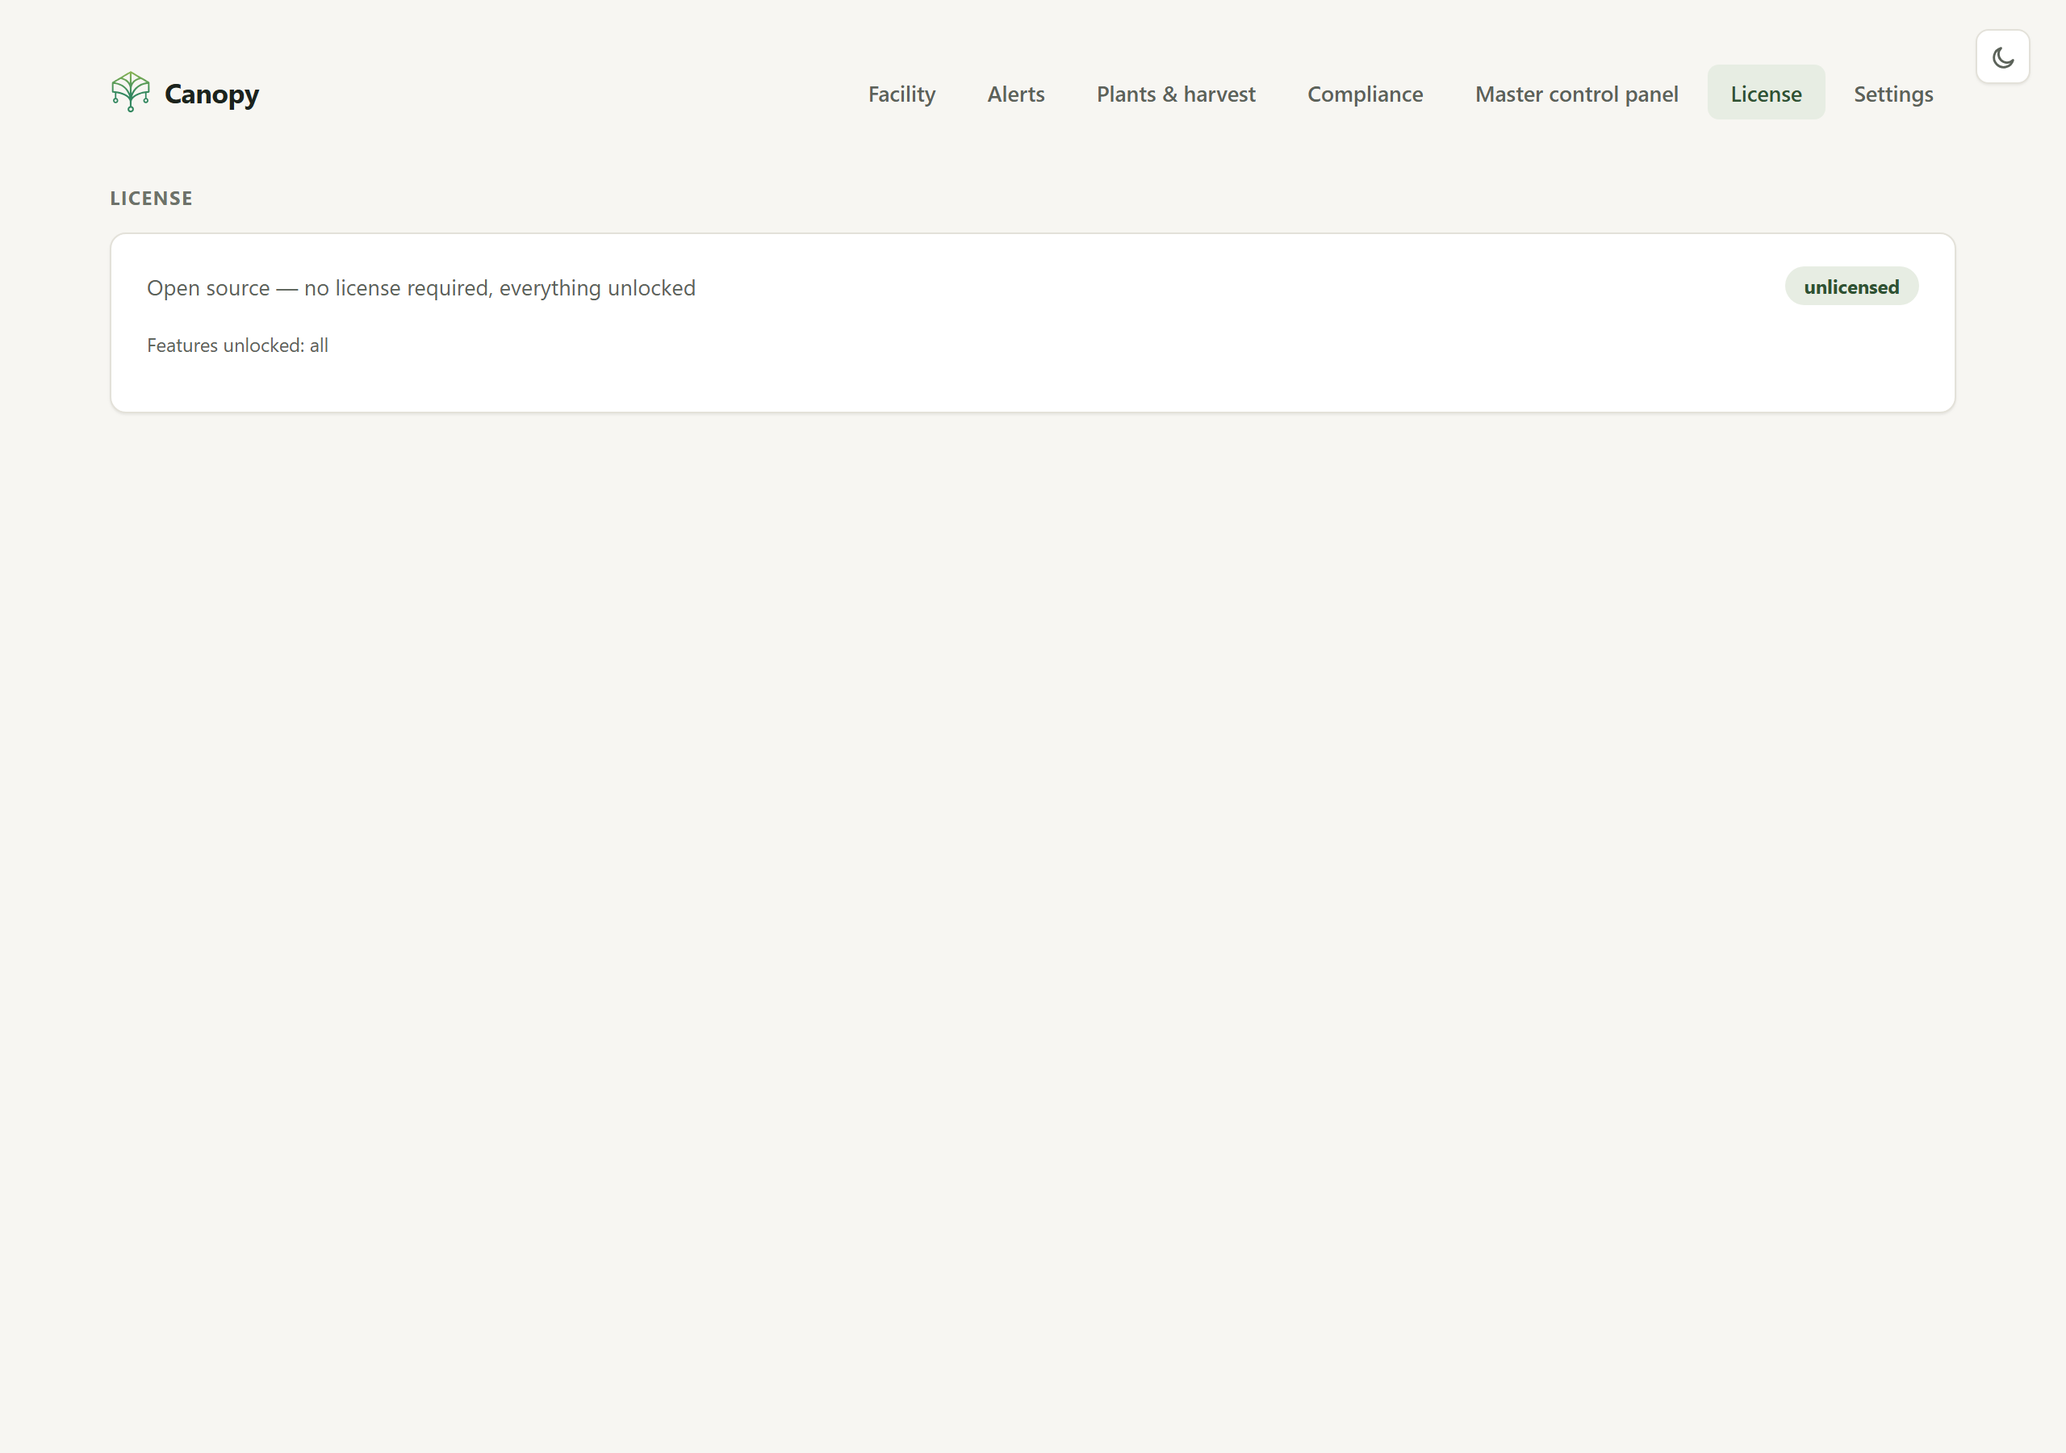
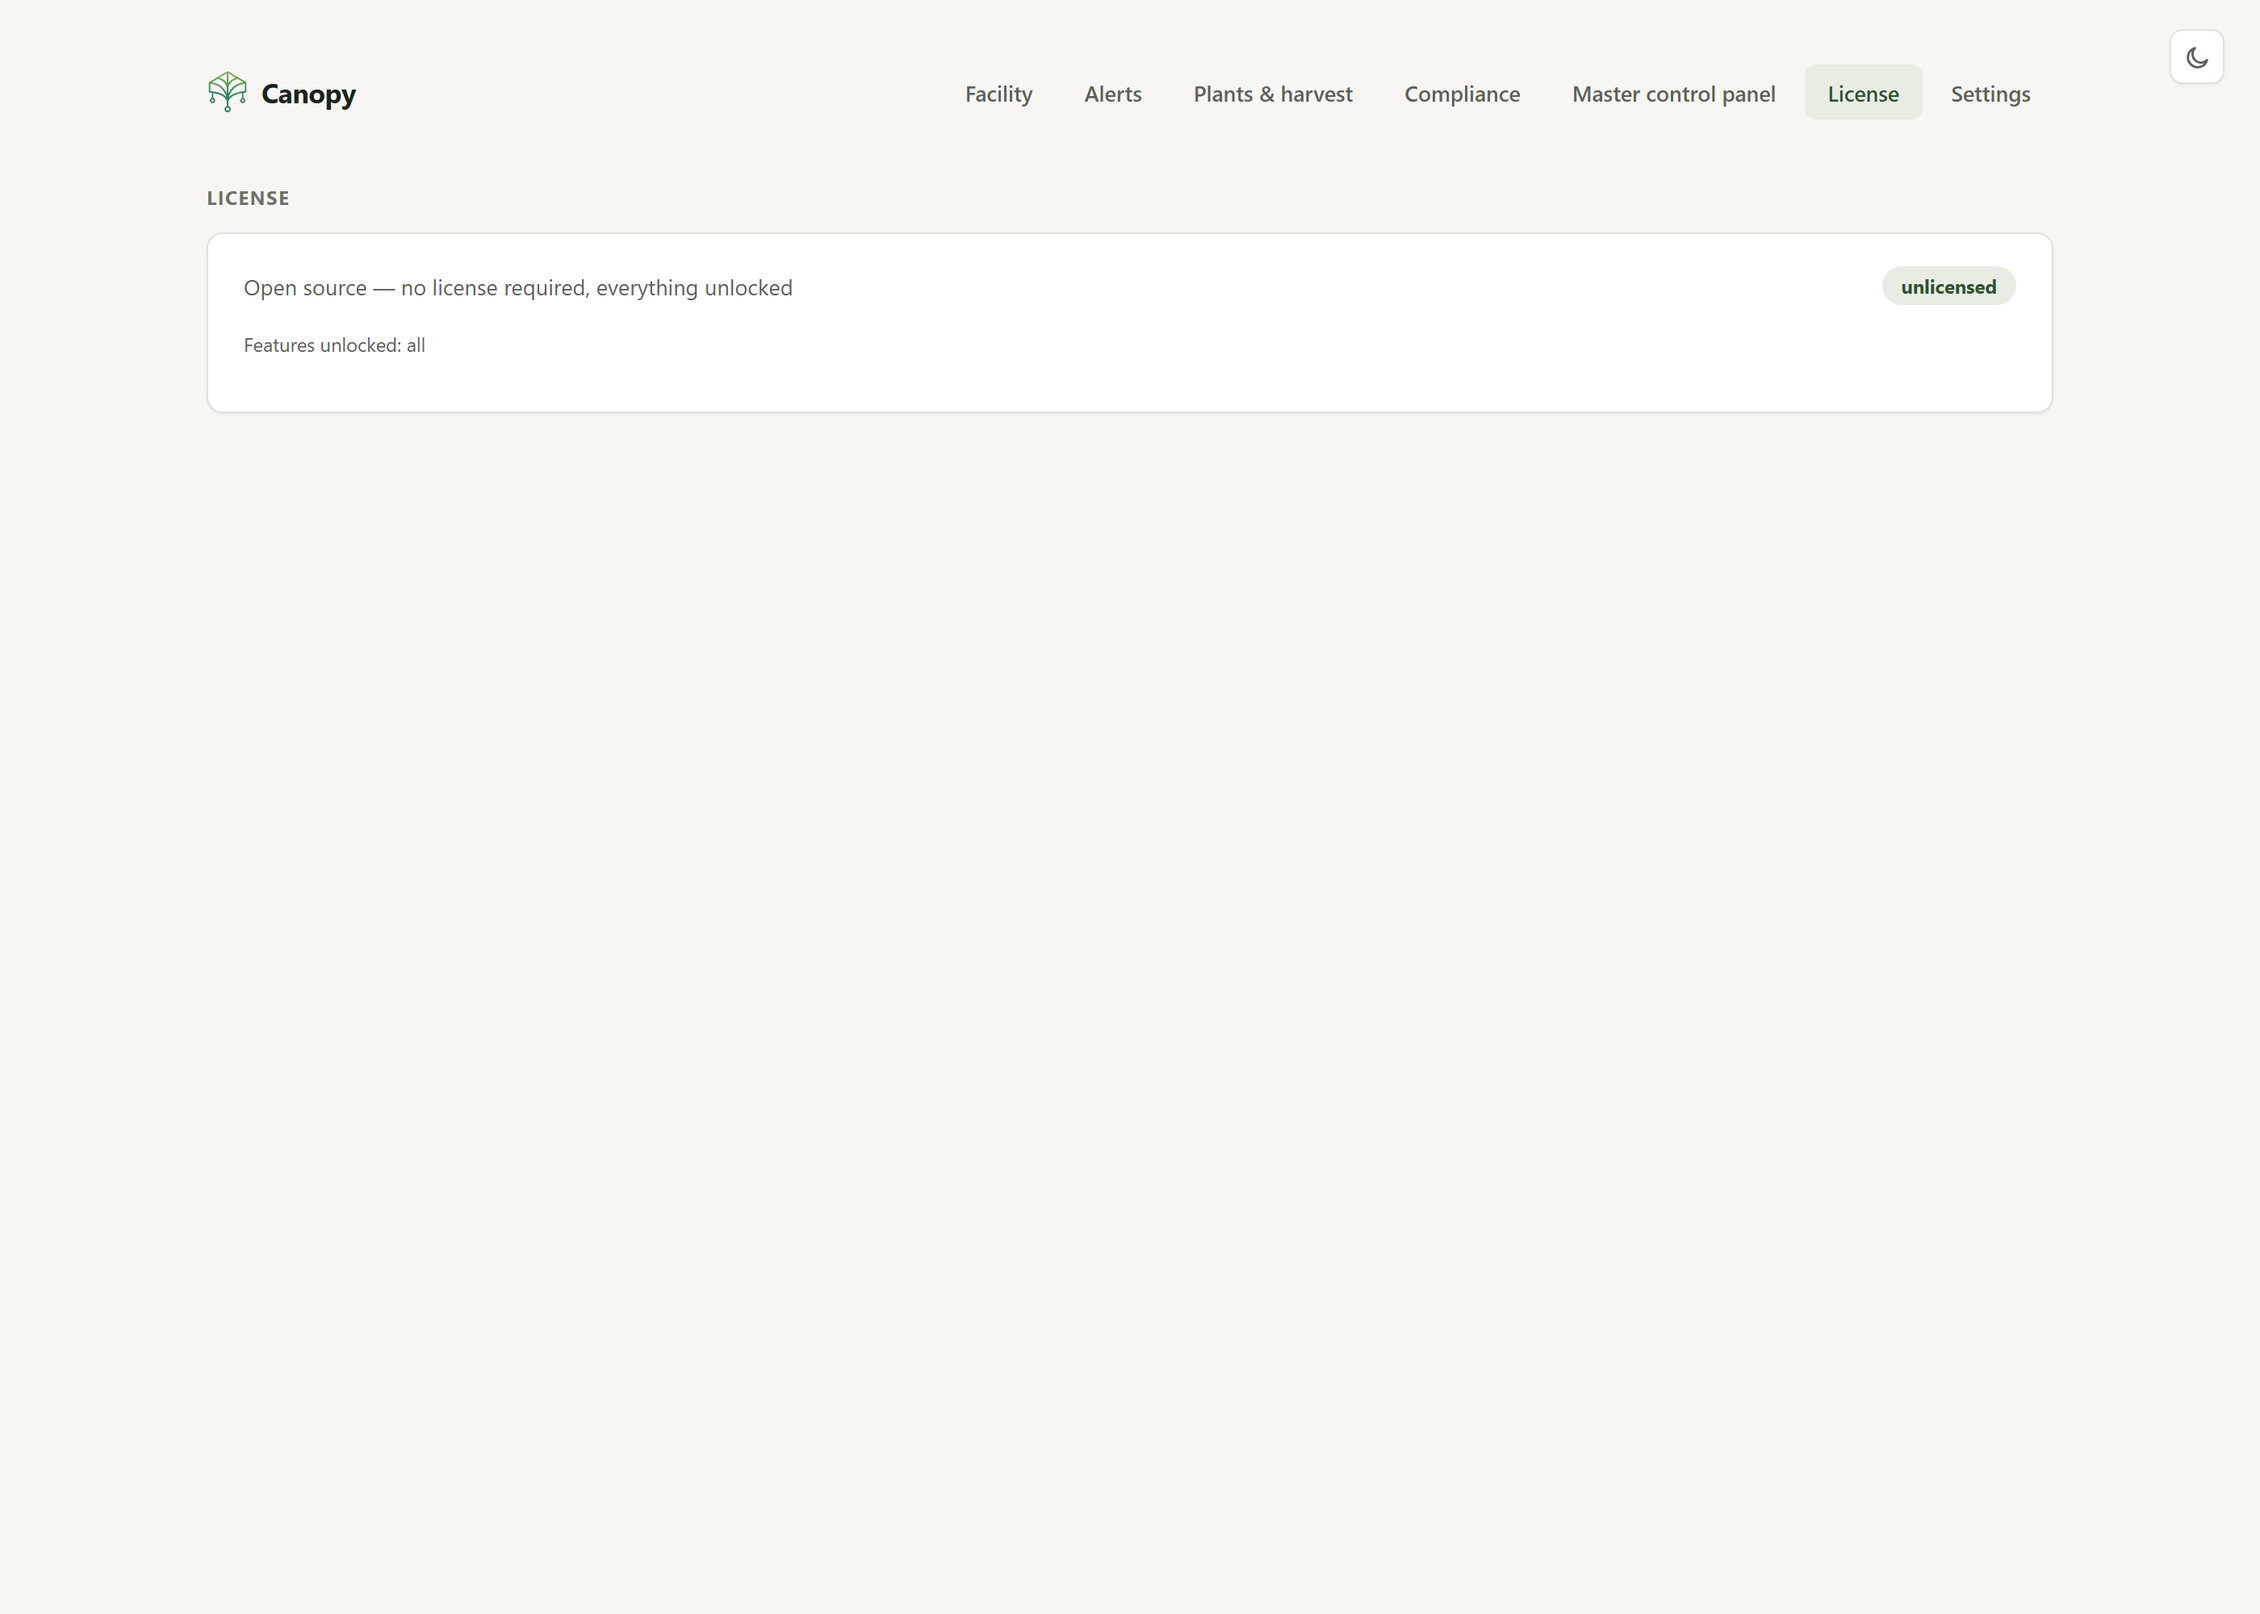
Refresh docs/screenshots to reflect this session's UI work, fix stray research-notes text in CA compliance data
Screenshots were 4 weeks stale (pre-dating the onboarding wizard, grouped
credentials list, new hardware adapters, and StatGrid fix). While
recapturing the compliance page for the marketing crop, found that
california.py's pos_realtime_sync_note had a leftover meta-commentary
sentence ("A genuine, well-sourced correction...") baked into the field
that renders live on the Compliance page — reads like a note to a
reviewer, not product copy. Trimmed it to match the citation style used
everywhere else in the compliance dataset.

diff --git a/edge-agent/canopy_agent/compliance_rules/california.py b/edge-agent/canopy_agent/compliance_rules/california.py
@@ -76,10 +76,9 @@ RULES = StateComplianceRules(
             "Cal. Code Regs. tit. 4, §15049(b), read directly from the official DCC PDF: 'Each of the "
             "following activities shall be recorded in the track and trace system within 24 hours of "
             "occurrence,' and (b)(8) explicitly lists 'Sale or donation of cannabis or cannabis products' as "
-            "one of those activities — the SAME 24-hour-deadline pattern already established for California's "
+            "one of those activities — the same 24-hour-deadline pattern already established for California's "
             "waste-destruction reporting in the cultivation section (§15049(b)(5)), confirming it's a uniform "
-            "24-hour standard across all eight listed activities, not real-time-at-sale. A genuine, "
-            "well-sourced correction to any assumption that CA requires live POS sync."
+            "24-hour standard across all eight listed activities, not real-time-at-sale."
         ),
         confidence="primary_source",  # every fact above read directly from the official DCC-hosted
         # consolidated regulations PDF (cdn.cannabis.ca.gov, Revised Jan. 1, 2026 edition)
